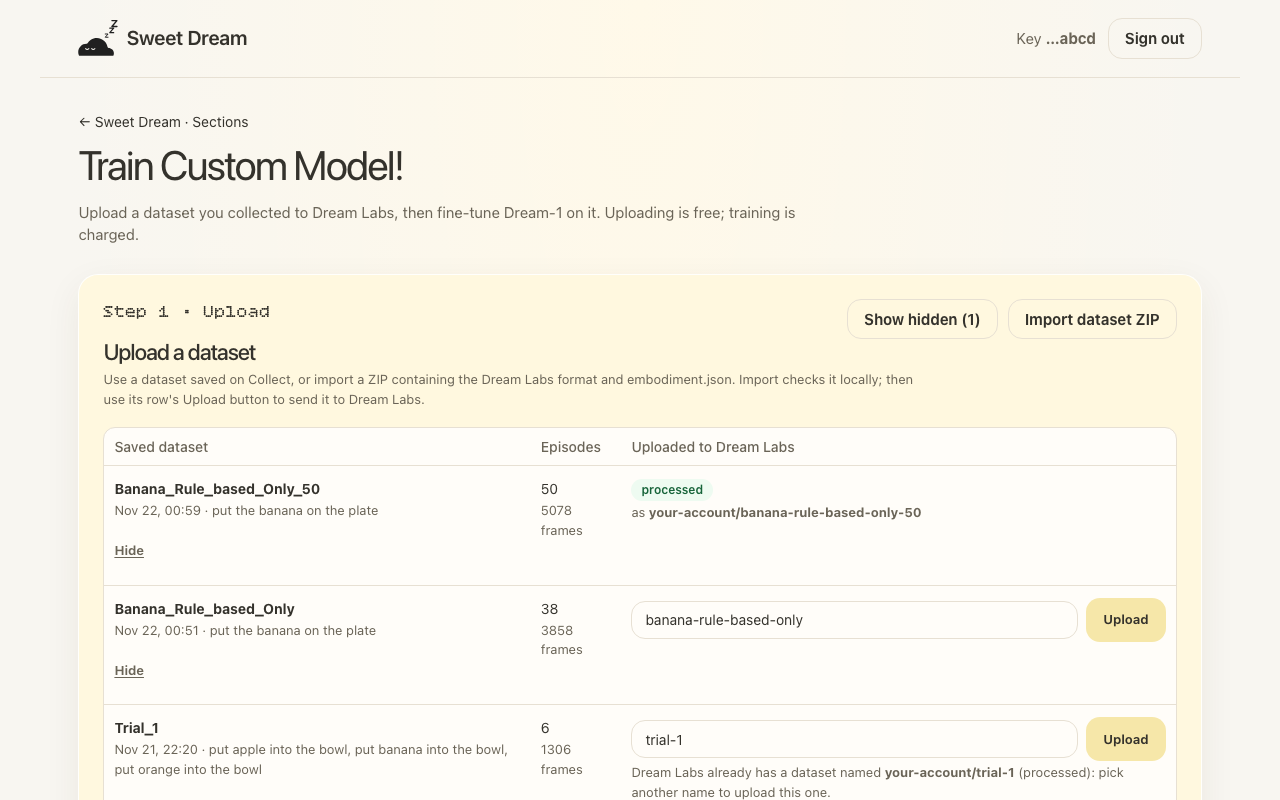
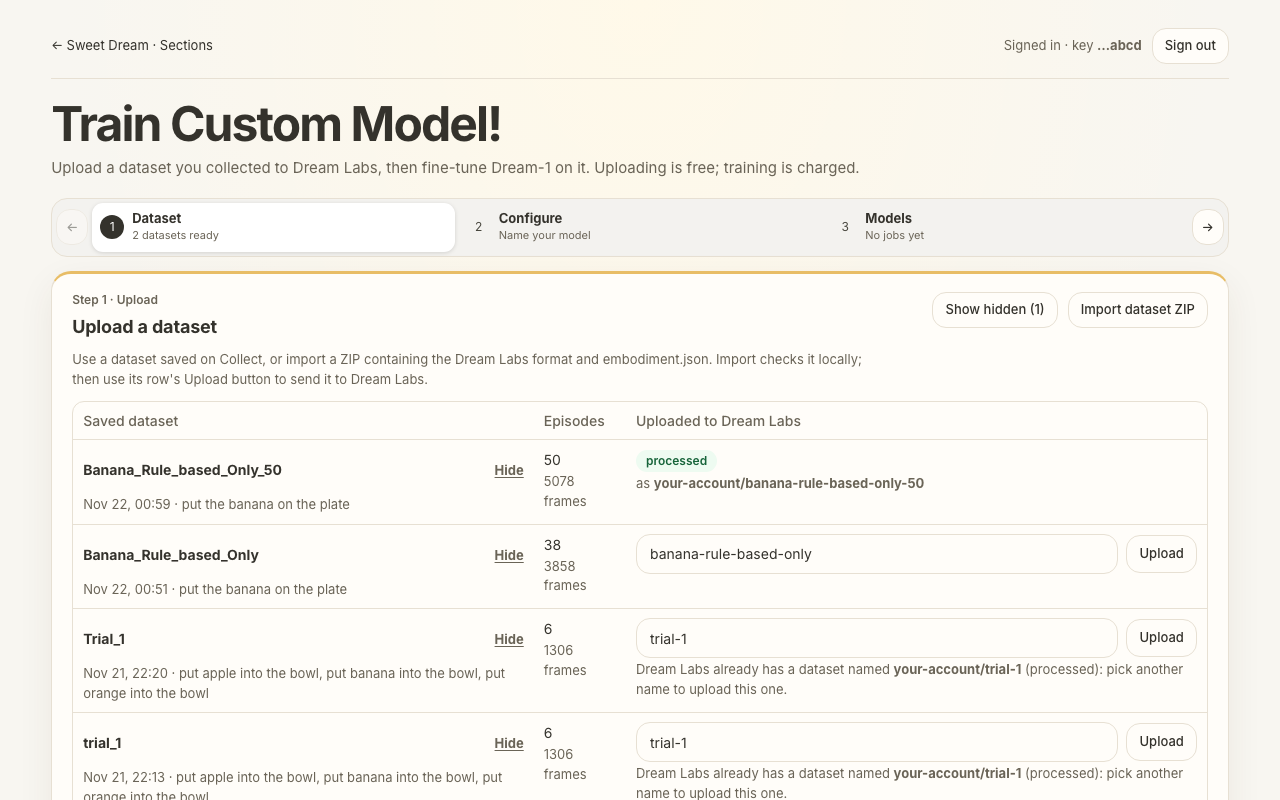
Screenshots of Train follow its step-by-step layout
Train now shows one step at a time under a Dataset · Configure · Models
bar, so both Train shots are taken again: the Dataset step with the
upload table, and the Configure step with the data mix, the new learning
rate schedule and the price. tools/screenshots.py opens Configure with the
next-step arrow, and the README's caption names the learning rate.

diff --git a/tools/screenshots.py b/tools/screenshots.py
@@ -120,11 +120,14 @@ def main():
         page.evaluate("() => { const w = document.getElementById('wizard'); window.scrollTo(0, w.getBoundingClientRect().top + scrollY - 24); }")
         shot("04-collect-batch", 1200)
 
-        # 6-7. Train: the saved datasets, then the training form and jobs.
+        # 6-7. Train: the saved datasets (step 1), then the training form (step 2).
         page.goto(base + "/train")
         page.wait_for_function("() => !document.getElementById('localRows').textContent.includes('Loading')", timeout=60000)
         shot("06-train", 800)
-        page.evaluate("() => { const t = document.getElementById('trainTitle'); window.scrollTo(0, t.getBoundingClientRect().top + scrollY - 70); }")
+        # Train shows one step at a time: the next-step arrow opens Configure, shown from the top of the page.
+        page.click("#nextStep")
+        page.wait_for_function("() => !document.getElementById('trainTitle').closest('section').hidden")
+        page.evaluate("() => window.scrollTo(0, 0)")
         shot("07-train-model", 800)
 
         # 8. Test.

diff --git a/README.md b/README.md
@@ -34,7 +34,7 @@ two-arm robot:
 | ![Collect page: setup steps and camera feeds](docs/assets/screens/03-collect.png) | ![Collect page: Run settings for a batch](docs/assets/screens/04-collect-batch.png) |
 | **1. Collect** · a run's video, verdict and label | **2. Train** · upload a saved dataset or import a ZIP |
 | ![A run's detail](docs/assets/screens/05-collect-run.png) | ![Train page: datasets](docs/assets/screens/06-train.png) |
-| **2. Train** · pick the dataset, steps and data mix, and see the price | **3. Test** · run a fine-tune on its own |
+| **2. Train** · pick the dataset, steps, data mix and learning rate, and see the price | **3. Test** · run a fine-tune on its own |
 | ![Train page: training form](docs/assets/screens/07-train-model.png) | ![Test page](docs/assets/screens/08-test.png) |
 
 ## Highlights
